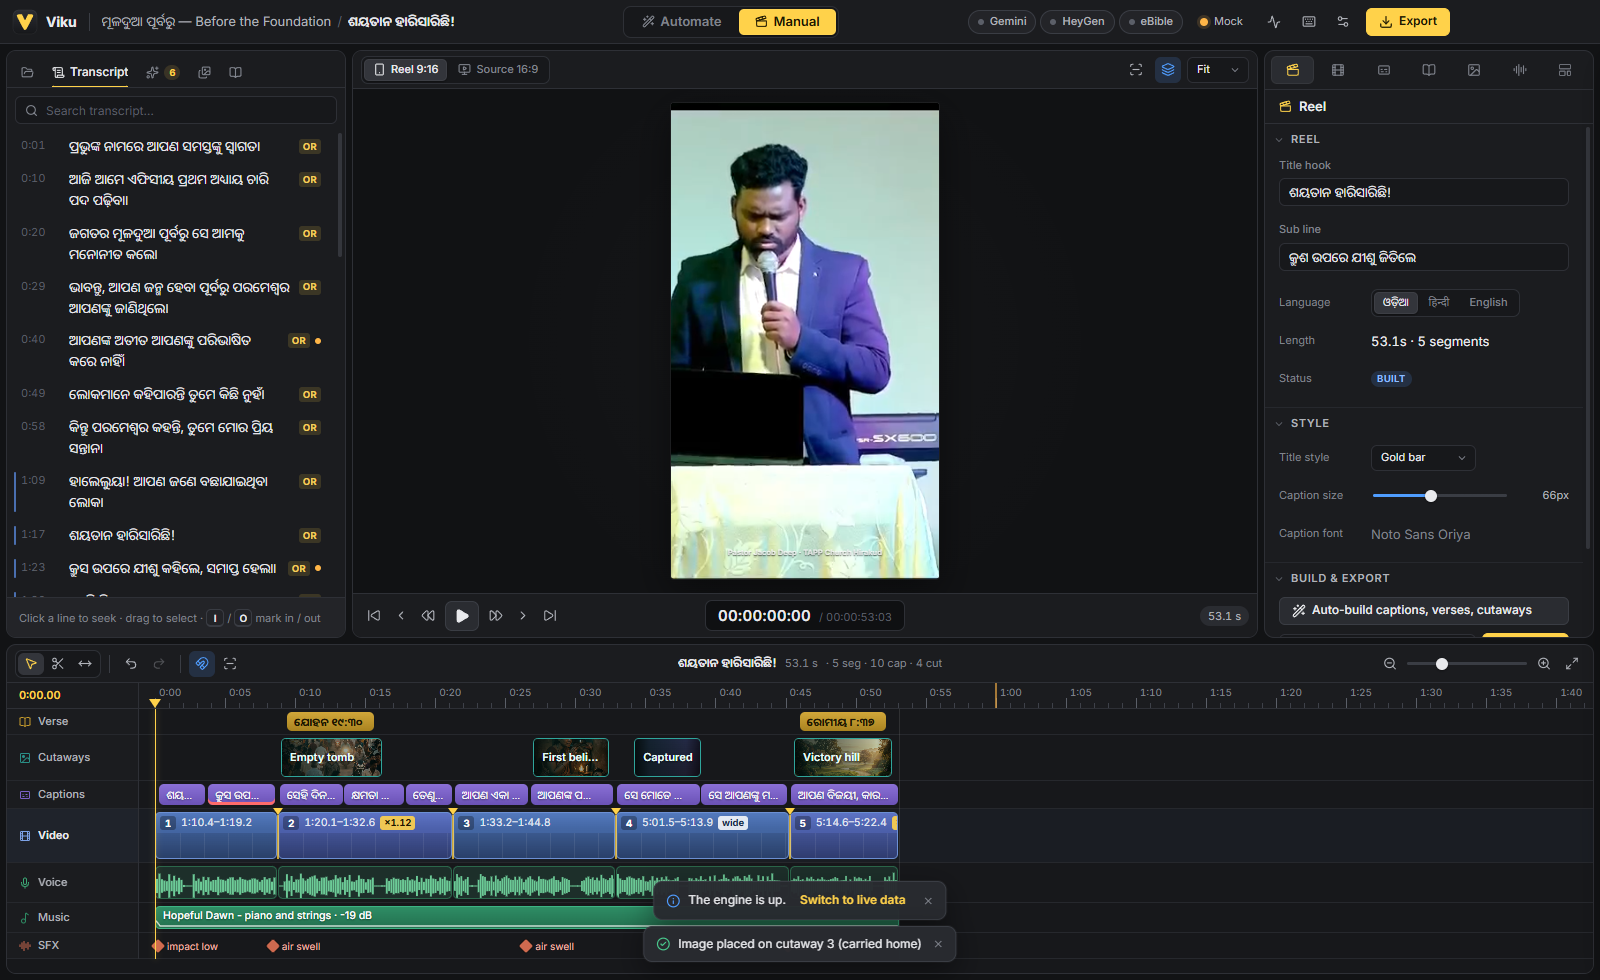
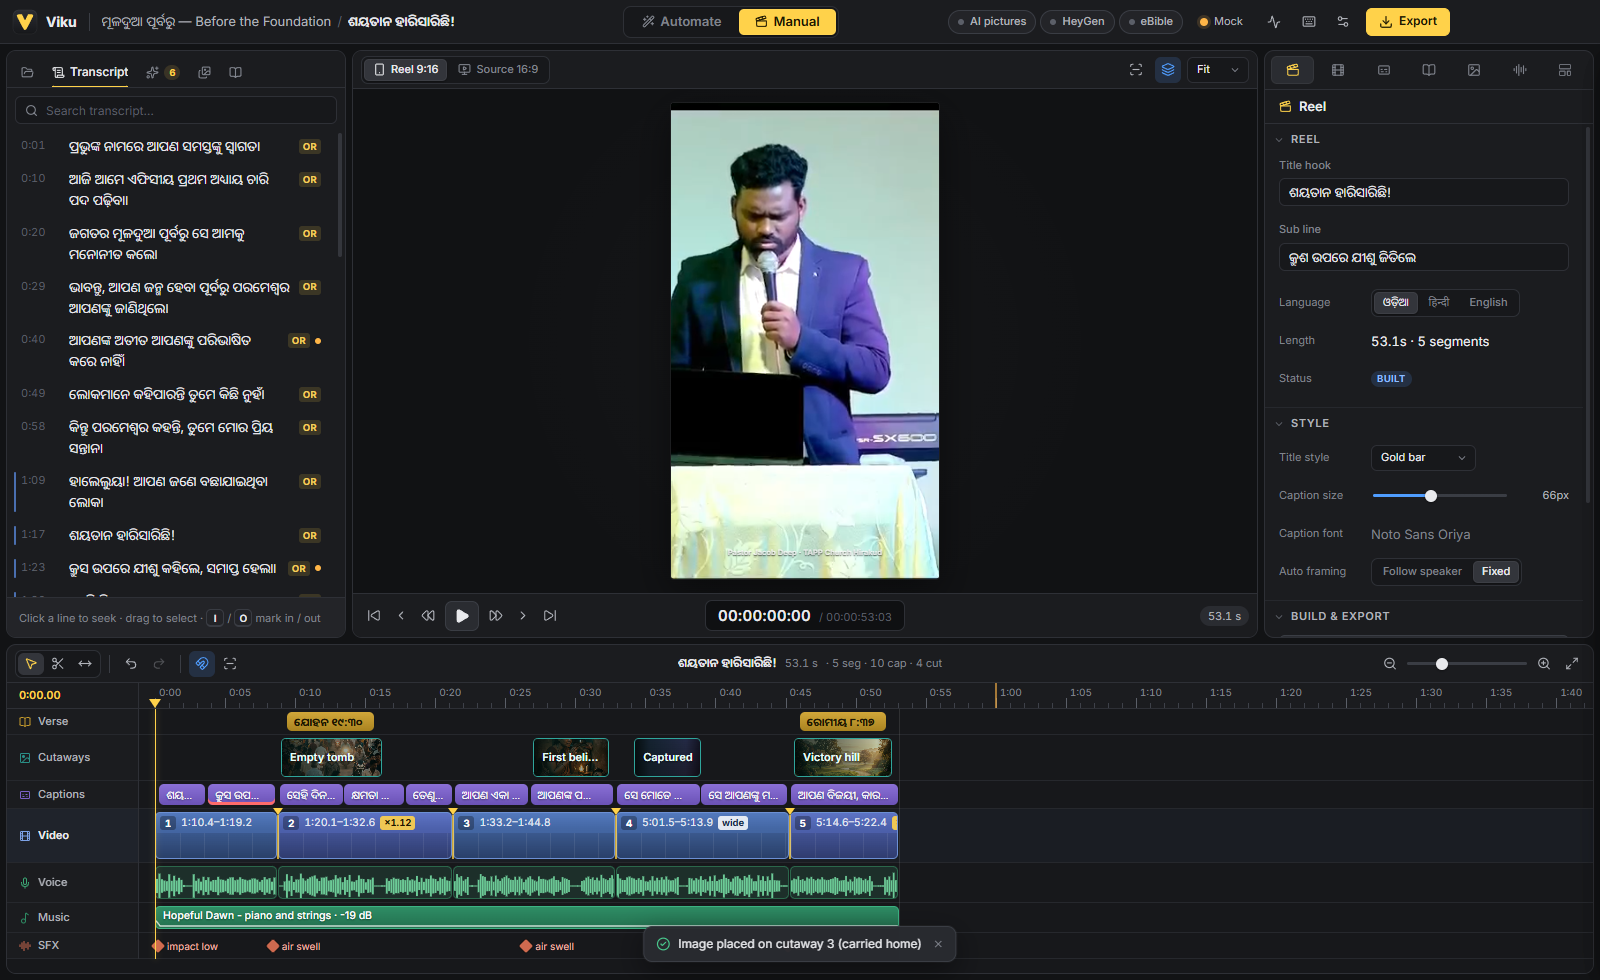
AI Studio busy pause, live progress in the drawer, stalled-tab recovery, AI pictures for old reels

Changed region(s): [[0.7812, 0.551, 0.9688, 0.6735], [0.4062, 0.8878, 0.5625, 0.949], [0.5938, 0.0, 0.6562, 0.0306]]

diff --git a/extension/background.js b/extension/background.js
@@ -130,17 +130,29 @@ async function tick(reason) {
   }
   await setStatus({ viku: true, port: await sget('port', 0), waiting: h.body.waiting, version: h.body.version })
   if (!h.body.enabled) return // Viku is not in "Your browser" mode
-  if (h.body.waiting > 0) {
+  if (h.body.waiting > 0 || h.body.working > 0) {
     const tab = await workerTab(h.body.model, h.page === 'signin')
     if (h.page === 'signin') await setStatus({ state: 'signin', note: 'Sign in to Google in the AI Studio tab' })
     // wake the content script (background tabs throttle its timers). A tab Chrome put to sleep to save memory, or one
     // still running an old copy of the script, does not answer: load it again so the script runs.
-    if (tab.discarded) await chrome.tabs.reload(tab.id).catch(() => undefined)
-    else
-      await chrome.tabs.sendMessage(tab.id, { type: 'poke', reason }).catch(async () => {
-        const t = await chrome.tabs.get(tab.id).catch(() => null)
-        if (t && t.status === 'complete' && /^https:\/\/aistudio\.google\.com\//.test(t.url || '')) await chrome.tabs.reload(tab.id).catch(() => undefined)
-      })
+    // Chrome can also pause a tab that has been in the background a long time, in the middle of a picture.
+    let answered = false
+    if (!tab.discarded) {
+      const pong = await chrome.tabs.sendMessage(tab.id, { type: 'poke', reason }).catch(() => null)
+      answered = Boolean(pong?.ok)
+    }
+    if (!answered) {
+      const t = await chrome.tabs.get(tab.id).catch(() => null)
+      if (t && (t.discarded || t.status === 'complete') && /^https:\/\/aistudio\.google\.com\//.test(t.url || '')) {
+        await chrome.tabs.reload(tab.id).catch(() => undefined)
+        // the prompt it was making is lost with the page: give it back to Viku so it is made again right away
+        const current = await sget('current', '')
+        if (current) {
+          await sset({ current: '' })
+          await viku('/viku/fail', { method: 'POST', headers: { 'content-type': 'application/json' }, body: JSON.stringify({ id: current, error: 'The AI Studio tab stopped answering - trying again', kind: 'error' }) }).catch(() => undefined)
+        }
+      }
+    }
   }
 }
 
@@ -184,8 +196,9 @@ chrome.runtime.onMessage.addListener((msg, sender, reply) => {
         if (!isWorker || !(await get('enabled', true))) return reply({ item: null, worker: Boolean(isWorker) })
         try {
           const r = await viku('/viku/next', { method: 'POST', headers: { 'content-type': 'application/json' }, body: '{}' })
-          if (r.item) await setStatus({ state: 'working', note: r.item.name })
+          if (r.item) await setStatus({ state: 'working', note: 'Starting the next picture' })
           else await setStatus({ state: 'idle', note: '' })
+          await sset({ current: r.item?.id ?? '' })
           return reply({ item: r.item ?? null, model: r.model || MODEL_DEFAULT, worker: true })
         } catch (e) {
           await setStatus({ state: 'no-viku', note: 'Open Viku on this computer' })
@@ -195,6 +208,7 @@ chrome.runtime.onMessage.addListener((msg, sender, reply) => {
       case 'result': {
         if (!isWorker) return reply({ ok: false })
         const r = await viku('/viku/result', { method: 'POST', headers: { 'content-type': 'application/json' }, body: JSON.stringify({ id: msg.id, mime: msg.mime, b64: msg.b64 }) })
+        await sset({ current: '' })
         const done = (await get('done', 0)) + 1
         await chrome.storage.local.set({ done })
         await setStatus({ state: 'idle', note: '', last: msg.name || '' })
@@ -202,6 +216,7 @@ chrome.runtime.onMessage.addListener((msg, sender, reply) => {
       }
       case 'fail': {
         if (!isWorker) return reply({ ok: false })
+        await sset({ current: '' })
         const r = await viku('/viku/fail', { method: 'POST', headers: { 'content-type': 'application/json' }, body: JSON.stringify({ id: msg.id, error: msg.error, kind: msg.kind }) }).catch(() => ({ pause: true }))
         await setStatus({ state: r.pause ? 'paused' : 'idle', note: msg.error })
         if (msg.kind === 'attention') await workerTab(undefined, true) // show the tab so the user can see what AI Studio wants
@@ -215,6 +230,12 @@ chrome.runtime.onMessage.addListener((msg, sender, reply) => {
       case 'enable': {
         await chrome.storage.local.set({ enabled: Boolean(msg.on) })
         await tick('toggle').catch(() => undefined)
+        return reply({ ok: true })
+      }
+      case 'progress': {
+        if (!isWorker) return reply({ ok: false })
+        await setStatus({ state: 'working', note: String(msg.note || '') })
+        await hello().catch(() => undefined) // tell Viku now, not at the next tick
         return reply({ ok: true })
       }
       case 'show-tab': {

diff --git a/extension/content.js b/extension/content.js
@@ -31,6 +31,8 @@
     }
   }
   let busy = false
+  // what the Viku tab is doing right now, shown in Viku's AI pictures panel (and handy when something stalls)
+  const step = (note) => send({ type: 'progress', note })
   let model = 'gemini-3.1-flash-image'
 
   const freshUrl = () => `https://aistudio.google.com/prompts/new_chat?model=${encodeURIComponent(model)}`
@@ -108,6 +110,7 @@
     for (let i = 0; i < 60; i++) {
       await sleep(500)
       if (document.querySelector(ACK)) {
+        step('Waiting for you to click Acknowledge in AI Studio')
         await send({ type: 'show-tab' }) // the user answers it; until then the prompt waits (2 minutes, then Viku pauses)
         for (let j = 0; j < 240 && document.querySelector(ACK); j++) await sleep(500)
         if (document.querySelector(ACK)) return { error: 'AI Studio asks you to acknowledge its rules for uploaded photos once — click Acknowledge in the Viku tab', kind: 'attention' }
@@ -151,6 +154,7 @@
 
   function classify(text) {
     if (/no image generated/i.test(text)) return 'noimage' // AI Studio could not draw this prompt
+    if (/unavailable|overloaded|try again later|internal error/i.test(text)) return 'busy' // Google's side: wait a little, then the same prompt again
     if (/quota|rate limit|exhausted|too many|permission denied/i.test(text)) return 'limit' // stop for now, try later
     if (/safety|polic/i.test(text)) return 'content' // this prompt will not work: skip it
     return 'error'
@@ -188,6 +192,7 @@
     if (performance.now() < 10000) await sleep(10000 - performance.now())
     // 2a. "Same face": the reference photo goes in first
     if (item.refs?.length) {
+      step('Attaching the face photo')
       const bad = await attach(item.refs)
       if (bad) return bad
     }
@@ -200,6 +205,7 @@
     box.focus()
     setter.call(box, item.prompt)
     box.dispatchEvent(new Event('input', { bubbles: true }))
+    step('Typing the prompt in AI Studio')
     await imagesOnly()
     // 3. press Run, and make sure AI Studio took it: the prompt shows up as a chat turn (on a page that has only just
     //    loaded, the button can exist before it works). Up to 3 presses, then give up quickly so Viku retries.
@@ -222,6 +228,7 @@
     }
     if (!submitted()) return { error: 'AI Studio did not take the prompt', kind: 'error' }
 
+    step('AI Studio is drawing')
     // 4. wait for the picture (or an error) - up to 3 minutes
     const t0 = Date.now()
     while (Date.now() - t0 < 180000) {

diff --git a/app/src/renderer/src/components/shell/AiPicturesDrawer.tsx b/app/src/renderer/src/components/shell/AiPicturesDrawer.tsx
@@ -73,7 +73,7 @@ export function AiPicturesDrawer() {
   }
   const total = n.waiting + n.making + n.done
   const busy = n.waiting + n.making > 0
-  const pausedMin = ext?.pausedUntil ? Math.max(1, Math.ceil((ext.pausedUntil - Date.now()) / 60000)) : 0
+  const pausedMin = ext?.pausedUntil && ext.pausedUntil > Date.now() ? Math.max(1, Math.ceil((ext.pausedUntil - Date.now()) / 60000)) : 0
 
   let tone: 'ok' | 'work' | 'warn' | 'off' = 'ok'
   let headline: string
@@ -88,12 +88,13 @@ export function AiPicturesDrawer() {
     sub = 'Set up once: the Viku extension makes each picture in your Chrome or Edge, with your own Google account, for free.'
   } else if (pausedMin) {
     tone = 'warn'
-    headline = `Paused — AI Studio limit reached`
+    headline = /unavailable|busy|try again later/i.test(ext?.note ?? '') ? 'Paused — AI Studio is busy (Google’s side)' : 'Paused — AI Studio limit reached'
     sub = `Carries on by itself in about ${pausedMin} min.`
   } else if (busy) {
     tone = 'work'
     headline = `Making picture ${Math.min(total, n.done + 1)} of ${total}`
-    sub = 'In an AI Studio tab of your browser, one at a time. Each picture lands on its cutaway by itself.'
+    // what the Viku tab is doing right now ("Attaching the face photo", "AI Studio is drawing"...)
+    sub = ext?.state === 'working' && ext.note ? `${ext.note}…` : 'In an AI Studio tab of your browser, one at a time. Each picture lands on its cutaway by itself.'
   } else if (n.done) {
     headline = `${n.done} picture${n.done === 1 ? '' : 's'} made`
     sub = 'Reels that were already rendered are re-rendered with their new pictures.'

diff --git a/app/src/main/signin.ts b/app/src/main/signin.ts
@@ -639,6 +639,7 @@ export class SignInManager implements ExtHandler {
       version: '1',
       enabled,
       waiting: enabled && !paused ? this.items.filter((i) => i.status === 'queued').length : 0,
+      working: this.items.filter((i) => i.status === 'sent' && i.sentBy === 'extension').length,
       model: EXT_MODEL,
       paused
     }
@@ -694,6 +695,11 @@ export class SignInManager implements ExtHandler {
       pause = true
       this.ext.pausedUntil = Date.now() + 10 * 60_000
       this.toast({ kind: 'warn', text: `${error} — Viku waits 10 minutes, then carries on. Press Send next to try sooner.` })
+    } else if (kind === 'busy') {
+      // AI Studio itself is busy ("service is unavailable"): not this prompt's fault, try it again in 2 minutes
+      pause = true
+      this.ext.pausedUntil = Date.now() + 2 * 60_000
+      this.toast({ kind: 'warn', text: 'AI Studio is busy right now (Google’s side) — Viku tries again in 2 minutes.' })
     } else if (kind === 'attention') {
       pause = true
       this.ext.pausedUntil = Date.now() + 2 * 60_000

diff --git a/app/src/main/extbridge.ts b/app/src/main/extbridge.ts
@@ -39,6 +39,8 @@ export interface ExtHello {
   waiting: number
   model: string
   paused: boolean
+  /** prompts the extension took and has not answered yet */
+  working: number
 }
 
 export const EXT_PORTS = [47917, 47918, 47919, 47920, 47921]

diff --git a/engine/viku/aipics.py b/engine/viku/aipics.py
@@ -122,6 +122,11 @@ def _around(captions: list[dict], t0: float, t1: float, pad: float = 6.0) -> str
     return " ".join(c["text"] for c in captions if c["t1"] > t0 - pad and c["t0"] < t1 + pad and c.get("text"))[:600]
 
 
+def _nearest(captions: list[dict], t: float) -> str:
+    cs = [c for c in captions if c.get("text")]
+    return min(cs, key=lambda c: abs((c["t0"] + c["t1"]) / 2 - t))["text"] if cs else ""
+
+
 def fill(rid: str, job: Job | None = None, replace: bool = False) -> dict:
     """Make a new AI picture for every cutaway that needs one (replace=True: every cutaway, library pictures
     included). -> {"made", "failed", "errors"}. Saves the reel after each picture, so a stop keeps what was made."""
@@ -145,7 +150,9 @@ def fill(rid: str, job: Job | None = None, replace: bool = False) -> dict:
             continue
         c = r["cutaways"][i]
         need = c.get("need") or c.get("need_done") or {}
-        line = (need.get("text") or c.get("text") or "").strip()
+        # older reels have no line on the cutaway: take the captions spoken under it (else the nearest one)
+        line = (need.get("text") or c.get("text") or _around(r.get("captions", []), c["t0"], c["t1"], 0.0)
+                or _nearest(r.get("captions", []), (c["t0"] + c["t1"]) / 2)).strip()
         if not line:
             errors.append(f"cutaway {i + 1}: no sermon line")
             continue

diff --git a/engine/tests/test_aipics.py b/engine/tests/test_aipics.py
@@ -95,3 +95,10 @@ def test_not_set_up_is_refused(monkeypatch):
     monkeypatch.setattr(aipics, "cfg", lambda: {"url": "", "key": ""})
     with pytest.raises(aipics.NotSetUp):
         aipics.scene("x", "or")
+
+
+def test_old_reels_without_a_line_use_the_captions_under_the_cutaway(world):
+    r = world["p"]["reels"][0]
+    r["cutaways"] = [{"t0": 3.2, "t1": 5.5, "img": "lib/old.png"}]   # session-1 era: no text, no need
+    res = aipics.fill("p1~2", replace=True)
+    assert res["made"] == 1 and r["cutaways"][0]["ai"]["scene"] == "scene for ଲାଇନ ଦୁଇ"

diff --git a/SAVE.md b/SAVE.md
@@ -2,6 +2,21 @@
 
 Contract: `ARCHITECTURE.md`. Update this file every session.
 
+## Session 9d (2026-11-18): AI Studio "busy", live progress, stalled-tab recovery, old reels
+- AI Studio "service unavailable / overloaded / try again later / internal error" -> content.js kind `busy` ->
+  SignInManager pauses 2 min (not 10), prompt back in the queue, the try is NOT used up; drawer headline says
+  "Paused - AI Studio is busy (Google's side)". Drawer pause countdown ignores a pausedUntil already in the past.
+- Live progress: content.js `step(note)` -> background `progress` message -> status + immediate hello; ExtHello has
+  `working` (prompts sent to the extension, not yet answered); drawer sub-line shows the step ("Attaching the face
+  photo", "Typing the prompt in AI Studio", "AI Studio is drawing").
+- Background also pokes the Viku tab while `working > 0`; no answer -> reloads the tab and hands the lost prompt back
+  (`/viku/fail` kind error, "The AI Studio tab stopped answering - trying again"); `current` item id kept in
+  storage.session. Extension 0.2.3.
+- Engine aipics.fill: session-1 era cutaways with no text/need take the captions spoken under them (else the nearest
+  caption) as the sermon line. test_aipics new case.
+- Verified: engine 85 passed; typecheck + lint clean; test-queue PASS; `scripts/e2e-extension.mjs` PASS incl. a new
+  BUSYME case (queued, tries 0, paused 2.0 min; Send next lifts it).
+
 ## Session 9c (2026-11-18): "Same face" — character consistency for AI pictures
 - Faces: `app/src/main/faces.ts` FaceStore in `<userData>/faces` (face-<id>.jpg, long side <= 1024, faces.json with
   `selected`). IPC `faces:*` + `window.viku.faces`. Queue items carry `faceId`/`faceName`; `queue()` adds FACE_ASK
